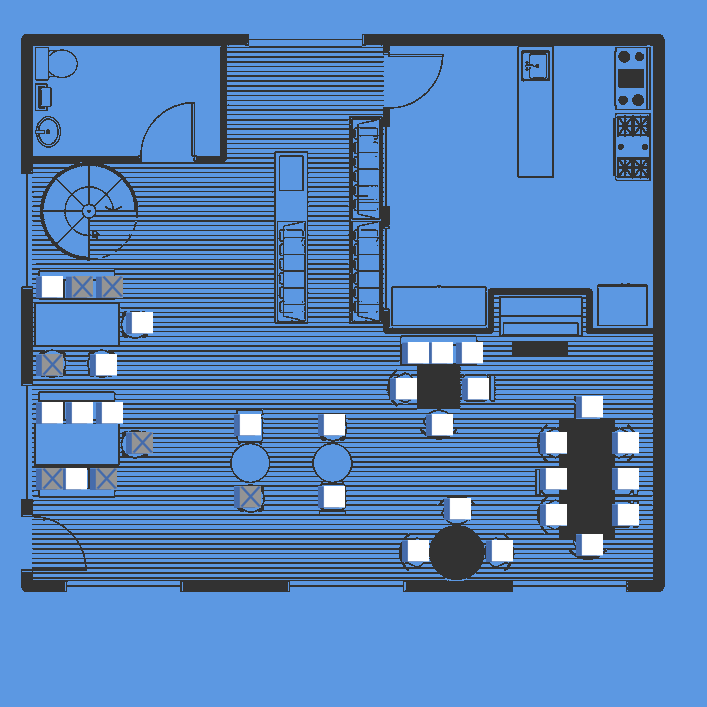
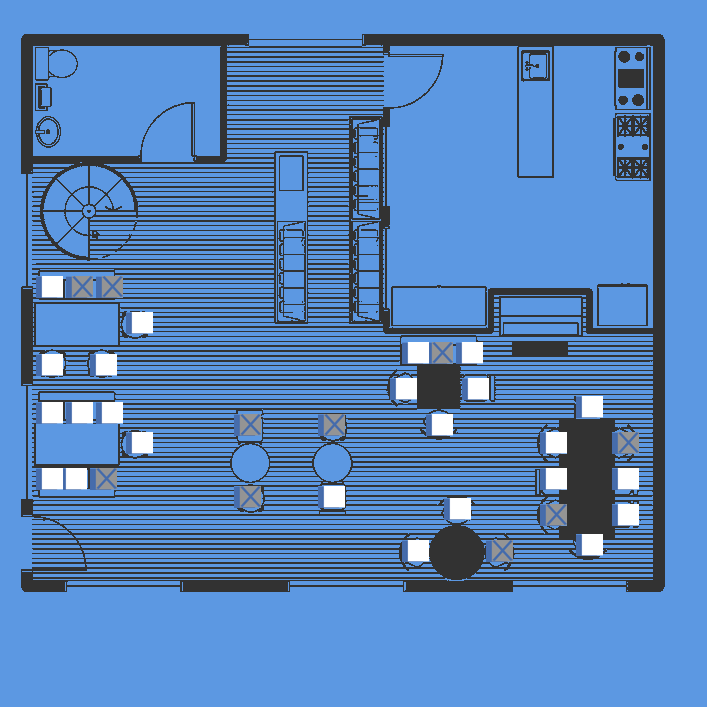
adjusted randomization algorithm

diff --git a/Server/Telegram_Bot_Spacey/config.py b/Server/Telegram_Bot_Spacey/config.py
@@ -172,7 +172,7 @@ class ResServer(object):
 
         for i in range(len(self.available_restaurants_name)):
             
-            #if self.available_restaurants_name[i] == 'Spacey Cafe' and self.userID == 'NUS': return
+            if self.available_restaurants_name[i] == 'Spacey Cafe' and self.userID == 'NUS': return
             if self.available_restaurants_name[i] == 'Deck' and self.userID == 'NUS': return
             print(self.available_restaurants_name[i])
             occupancy = {}
@@ -183,8 +183,8 @@ class ResServer(object):
             occupancy = cfg.database.client.hgetall(full_name_occupancy)
 
             keys_list = list(occupancy.keys())
-            low = -int(0.2 * len(occupancy.keys()))
-            high = int(0.2 * len(occupancy.keys()))+1
+            low = -int(0.08 * len(occupancy.keys()))
+            high = int(0.08 * len(occupancy.keys()))+1
             numRand = int(len(keys_list) * threshold) + random.randint(low, high)
             print(numRand)
             if numRand < 0: numRand = 0
